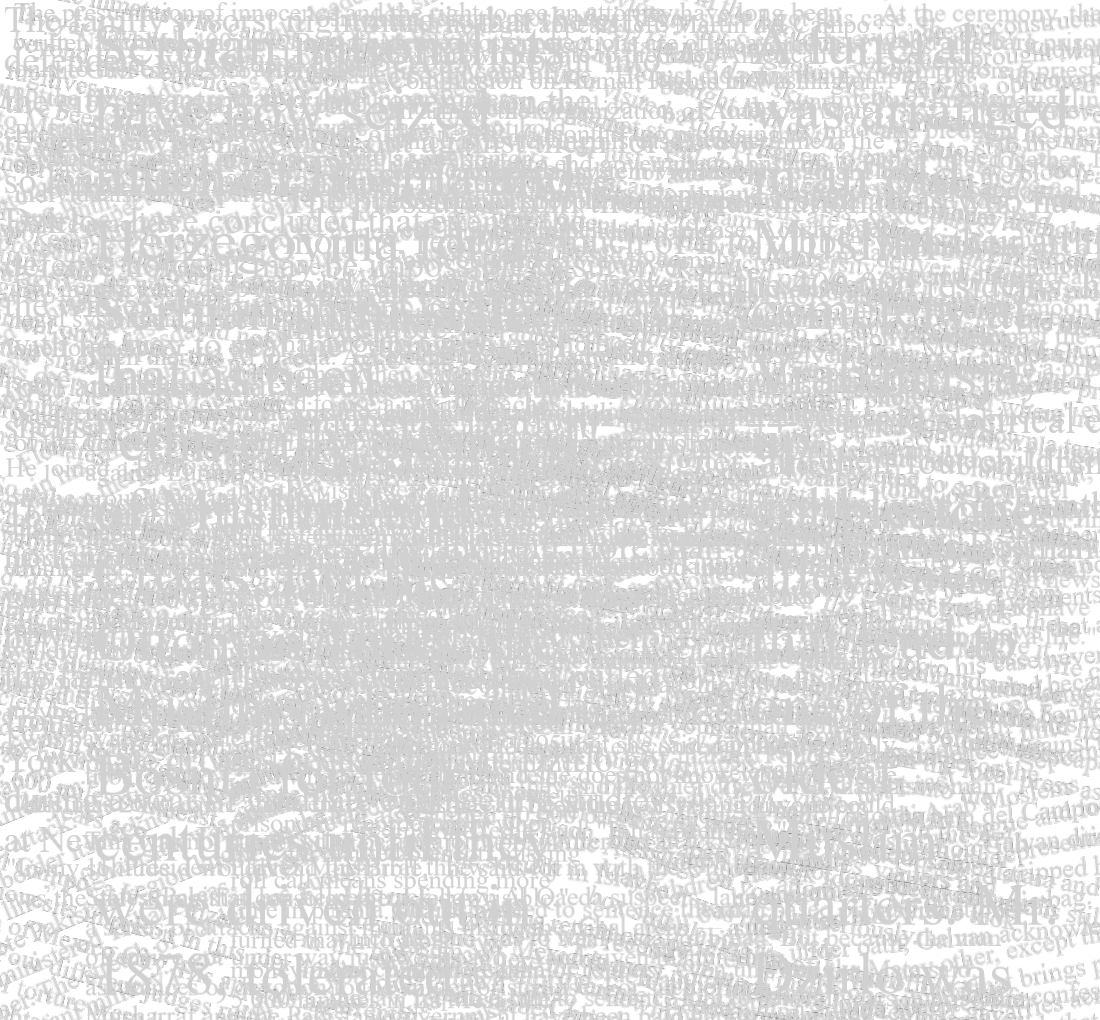
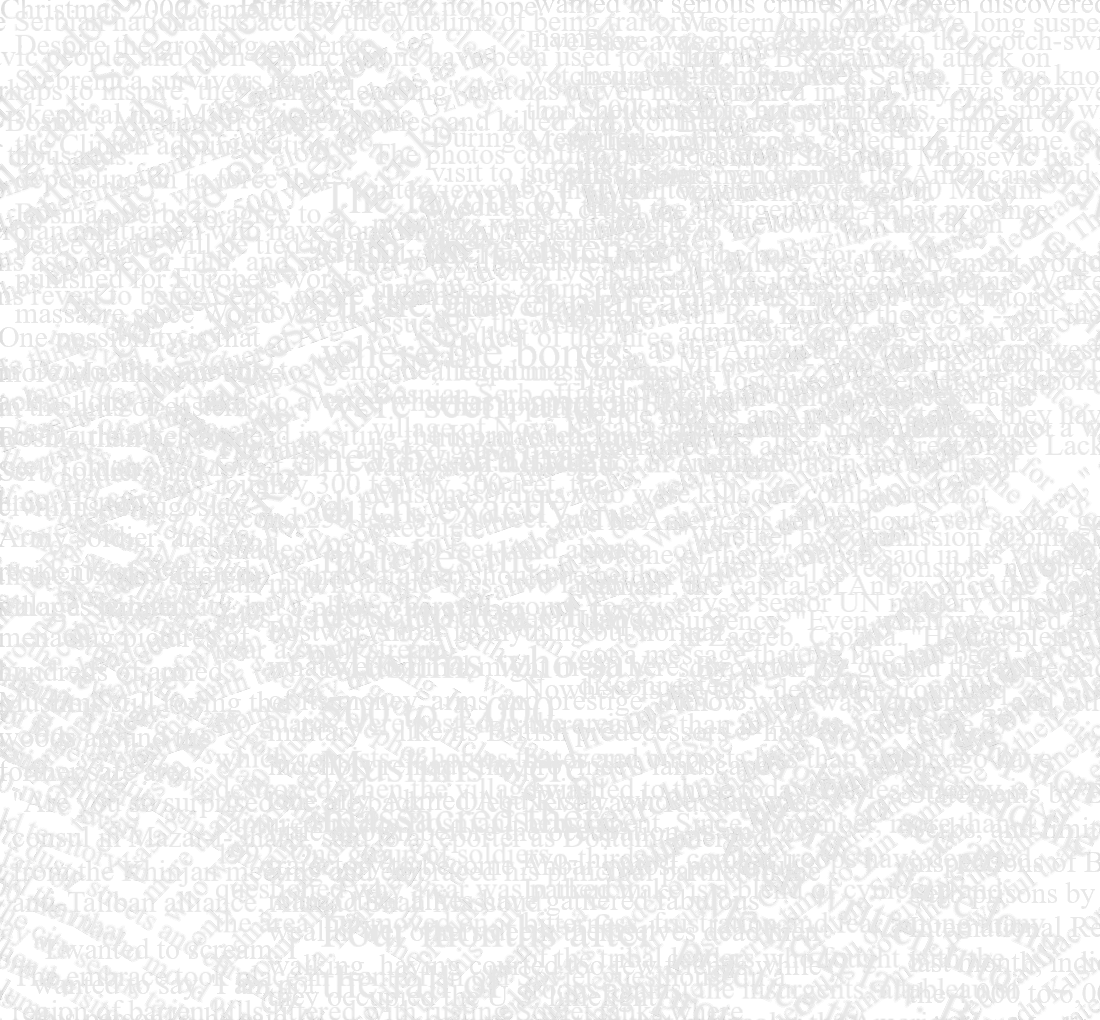
ydn

diff --git a/website/other-pages/about.html b/website/other-pages/about.html
@@ -30,12 +30,12 @@
     <div class="contianer-fluid">
         <div class="row art-style-120-height"></div> <!-- gif -->
     </div>
-    <div class="container-fluid">
+    <div class="container-fluid art-back-img-back1">
         <div class="row art-style-2-height"></div>
         <div class="row">
             <div class="col-md-2 col-3"></div>
             <div class="col-md-5 col-7 art-style-grey-3-border">
-                <div class="row art-style-grey-3-bborder art-style-margins-abt-top art-style-back-white">
+                <div class="row art-style-margins-abt-top art-style-back-white">
                     <div class="col-12"><p class="h1 art-text-center text-uppercase art-style-text-red">Mission</p></div>
                 </div>
                 <div class="row">
@@ -50,7 +50,7 @@
         <div class="row">
             <div class="col-md-5 col-2"></div>
             <div class="col-md-5 col-7 art-style-grey-3-border">
-                <div class="row art-style-grey-3-bborder art-style-margins-abt-top art-style-back-white">
+                <div class="row art-style-margins-abt-top art-style-back-white">
                     <div class="col-12"><p class="h1 art-text-center text-uppercase art-style-text-red">Why?</p></div>
                 </div>
                 <div class="row">
@@ -65,31 +65,16 @@
         <div class="row">
             <div class="col-md-2 col-3"></div>
             <div class="col-md-5 col-7 art-style-grey-3-border">
-                <div class="row art-style-grey-3-bborder art-style-margins-abt-top art-style-back-white">
+                <div class="row art-style-margins-abt-top art-style-back-white">
                     <div class="col-12"><p class="h1 art-text-center text-uppercase art-style-text-red">What?</p></div>
                 </div>
                 <div class="row">
                     <div class="col-12 art-style-margins-abt art-style-back-white">
-                        <p class="art-text-center art-style-text-black"> Our algorithm analyzes winners of the Pulitzer Prize for International Reporting and captures a similarity score for any article that we feed it. Currently, we use it to suggest articles for every country that the UNOCHA has a Humanitarian Response Plan for.</p>
+                        <p class="art-text-center art-style-text-black"> Our algorithm analyzes winners of the Pulitzer Prize for International Reporting (from 1995 onwards) and captures a similarity score for any article that we feed it. Currently, we use it to suggest articles about pressing global humanitarian crises.</p>
                     </div>
                 </div>
             </div>
             <div class="col-md-5 col-2"></div>
-        </div>
-        <div class="row art-style-5-height"></div>
-        <div class="row">
-            <div class="col-md-5 col-2"></div>
-            <div class="col-md-5 col-7 art-style-grey-3-border">
-                <div class="row art-style-grey-3-bborder art-style-margins-abt-top art-style-back-white">
-                    <div class="col-12"><p class="h1 art-text-center text-uppercase art-style-text-red">What next?</p></div>
-                </div>
-                <div class="row">
-                    <div class="col-12 art-style-margins-abt art-style-back-white">
-                        <p class="art-text-center art-style-text-black"> Our solution is not perfect. Good journalism is certainly not exclusive to winners of the Pulitzer Prize for International Reporting. To that end, we are actively looking for ways to improve.</p>
-                    </div>
-                </div>
-            </div>
-            <div class="col-md-2 col-3"></div>
         </div>
         <div class="row art-style-5-height"></div>
     </div>

diff --git a/website/css/art-style.css b/website/css/art-style.css
@@ -77,10 +77,10 @@ body {
  
 /* about page elements */
 .art-back-img-back1 {
-    background-image: url(../img/back2.png);
+    background-image: url(../img/back1.png);
     background-size:cover;
     background-repeat: no-repeat;
-    opacity: 0.9;
+    opacity: 1.0;
 }
 
 /* more useful */
@@ -171,6 +171,7 @@ body {
 
 .art-style-margins-abt{
     padding: 5px;
+    padding-top: 0px;
 }
 
 .art-style-margins-abt-top{
